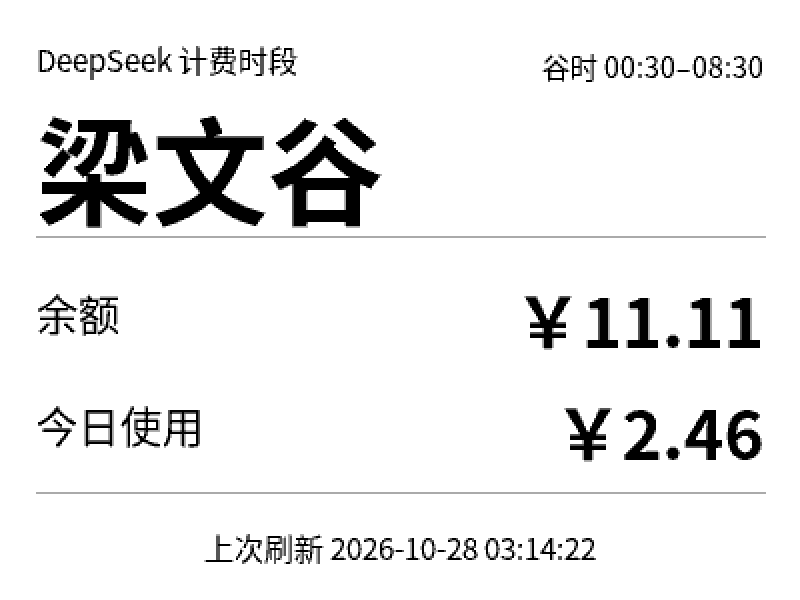
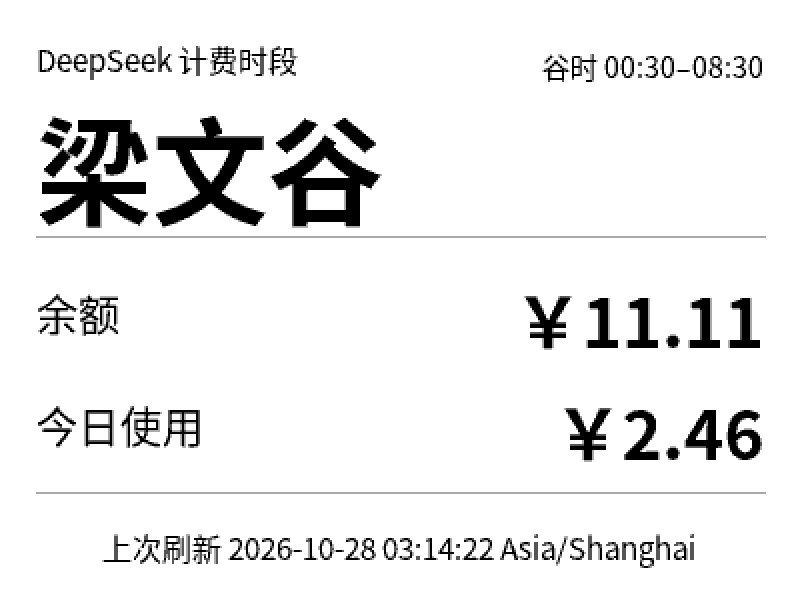
时间跟随系统时区，并在界面/终端显示 IANA 时区名（如 Asia/Shanghai）；footer 字号自适应；平台用量查询同步改用本地时区

Changed region(s): [[0.125, 0.87, 0.875, 0.96]]

diff --git a/deepseek-status/status_display.py b/deepseek-status/status_display.py
@@ -29,16 +29,94 @@ except ImportError:
 import renderer
 
 HERE = os.path.dirname(os.path.abspath(__file__))
-BEIJING = timezone(timedelta(hours=8))
 API_URL = "https://api.deepseek.com/user/balance"
 
-# 峰谷时段（北京时间）：00:30–08:30 为谷时，其余为峰时
+# Windows 时区名 → IANA 名（只列常见项，查不到时回退显示原值）
+WIN_TZ_MAP = {
+    "China Standard Time": "Asia/Shanghai",
+    "Taipei Standard Time": "Asia/Taipei",
+    "Tokyo Standard Time": "Asia/Tokyo",
+    "Korea Standard Time": "Asia/Seoul",
+    "Singapore Standard Time": "Asia/Singapore",
+    "Malay Peninsula Standard Time": "Asia/Kuala_Lumpur",
+    "India Standard Time": "Asia/Kolkata",
+    "Arabian Standard Time": "Asia/Dubai",
+    "Arab Standard Time": "Asia/Riyadh",
+    "UTC": "Etc/UTC",
+    "GMT Standard Time": "Europe/London",
+    "W. Europe Standard Time": "Europe/Berlin",
+    "Romance Standard Time": "Europe/Paris",
+    "Moscow Standard Time": "Europe/Moscow",
+    "Russian Standard Time": "Europe/Moscow",
+    "Pacific Standard Time": "America/Los_Angeles",
+    "Mountain Standard Time": "America/Denver",
+    "Central Standard Time": "America/Chicago",
+    "Eastern Standard Time": "America/New_York",
+    "AUS Eastern Standard Time": "Australia/Sydney",
+    "New Zealand Standard Time": "Pacific/Auckland",
+    "Hawaiian Standard Time": "Pacific/Honolulu",
+}
+
+
+def local_tz_name() -> str:
+    """返回类似 Asia/Shanghai 的系统时区名（Windows 会做时区名映射）。"""
+    # 1) TZ 环境变量
+    tz = os.environ.get("TZ")
+    if tz and "/" in tz:
+        return tz
+    # 2) Linux/macOS：/etc/localtime 符号链接或 /etc/timezone
+    try:
+        real = os.path.realpath("/etc/localtime")
+        if "zoneinfo/" in real:
+            return real.split("zoneinfo/", 1)[1]
+    except Exception:
+        pass
+    try:
+        t = open("/etc/timezone", "r", encoding="utf-8").read().strip()
+        if t:
+            return t
+    except Exception:
+        pass
+    # 3) tzlocal（若安装）
+    try:
+        from tzlocal import get_localzone_name
+        name = get_localzone_name()
+        if name:
+            return name
+    except Exception:
+        pass
+    # 4) Windows 注册表
+    if sys.platform.startswith("win"):
+        try:
+            import winreg
+            with winreg.OpenKey(
+                winreg.HKEY_LOCAL_MACHINE,
+                r"SYSTEM\CurrentControlSet\Control\TimeZoneInformation",
+            ) as key:
+                win_name = winreg.QueryValueEx(key, "TimeZoneKeyName")[0]
+            return WIN_TZ_MAP.get(win_name, win_name)
+        except Exception:
+            pass
+    # 5) 兜底：缩写 + UTC 偏移
+    now = datetime.now().astimezone()
+    off = now.utcoffset() or timedelta(0)
+    total = int(off.total_seconds())
+    sign = "+" if total >= 0 else "-"
+    total = abs(total)
+    hh, mm = divmod(total // 60, 60)
+    return f"{now.tzname() or 'Local'} (UTC{sign}{hh:02d}:{mm:02d})"
+
+
+# 时区名在启动时解析一次（跟随系统时间）
+TZ_NAME = local_tz_name()
+
+# 峰谷时段（跟随系统本地时间）：00:30–08:30 为谷时，其余为峰时
 OFFPEAK_START = (0, 30)
 OFFPEAK_END = (8, 30)
 
 
-def now_cn() -> datetime:
-    return datetime.now(BEIJING)
+def now_local() -> datetime:
+    return datetime.now().astimezone()
 
 
 def is_offpeak(dt: datetime) -> bool:
@@ -153,25 +231,25 @@ def update_today_used(state: dict, balance: float, today: str) -> tuple[float, d
 
 
 def stamp() -> str:
-    return now_cn().strftime("%Y-%m-%d %H:%M:%S")
+    return now_local().strftime("%Y-%m-%d %H:%M:%S")
 
 
 def log(msg: str):
-    print(f"[{now_cn().strftime('%H:%M:%S')} 北京] {msg}", flush=True)
+    print(f"[{now_local().strftime('%H:%M:%S')} {TZ_NAME}] {msg}", flush=True)
 
 
 def render_frame(balance: float, used: float, refreshed: str, peak: bool):
     return renderer.render(
         balance_text=f"￥{balance:.2f}",
         today_used_text=f"￥{used:.2f}",
-        refreshed_text=f"上次刷新 {refreshed}",
+        refreshed_text=f"上次刷新 {refreshed} {TZ_NAME}",
         peak=peak,
     )
 
 
 async def do_refresh(args, cycle: int, session=None):
     """刷新一次；返回 (是否成功, session)。"""
-    t = now_cn()
+    t = now_local()
     peak = not is_offpeak(t)
     name = "梁文峰" if peak else "梁文谷"
     window = "峰时 08:30–00:30" if peak else "谷时 00:30–08:30"
@@ -327,6 +405,7 @@ def main():
 
     log("DeepSeek 状态墨水屏控制端启动")
     log(f"间隔 {args.interval}s ｜ 传输 {args.transport} ｜ token 文件 {args.token_file}")
+    log(f"系统时区：{TZ_NAME}")
     if args.transport == "ble":
         try:
             import bleak  # noqa: F401

diff --git a/deepseek-status/deepseek_usage.py b/deepseek-status/deepseek_usage.py
@@ -16,8 +16,6 @@ import time
 from datetime import datetime, timedelta, timezone
 
 import requests
-
-BEIJING = timezone(timedelta(hours=8))
 PLATFORM_BASE = "https://platform.deepseek.com/api/v0/usage"
 
 
@@ -48,12 +46,12 @@ def _sum_costs(obj, today: str, found: list[bool]) -> float:
 
 def fetch_today_cost(user_token: str, timeout: int = 20):
     """返回 (原始响应文本 or None, 今日消费金额 or None)。"""
-    now = datetime.now(BEIJING)
-    start = datetime(now.year, now.month, now.day, tzinfo=BEIJING)
+    now = datetime.now().astimezone()
+    start = datetime(now.year, now.month, now.day, tzinfo=now.tzinfo)
     params = {
         "start": int(start.timestamp()),
         "end": int(now.timestamp()),
-        "tz": 8 * 3600,
+        "tz": int((now.utcoffset() or timedelta(0)).total_seconds()),
     }
     headers = {
         "Authorization": f"Bearer {user_token}",

diff --git a/deepseek-status/renderer.py b/deepseek-status/renderer.py
@@ -54,9 +54,15 @@ def render(
     f_side = _font(FONT_REG, 14)
     f_item_label = _font(FONT_REG, 21)
     f_item_value = _font(FONT_BOLD, 34)
-    f_foot = _font(FONT_REG, 15)
-
     pad = 18
+    # footer 字号自适应：带时区名后可能变长
+    f_foot = _font(FONT_REG, 15)
+    max_width = WIDTH - pad * 2
+    for size in (15, 14, 13, 12, 11):
+        f_foot = _font(FONT_REG, size)
+        if d.textlength(refreshed_text, font=f_foot) <= max_width:
+            break
+
     # ── 第一行：梁文峰（峰时）/ 梁文谷（谷时） ──
     name = "梁文峰" if peak else "梁文谷"
     window = "峰时 08:30–00:30" if peak else "谷时 00:30–08:30"
